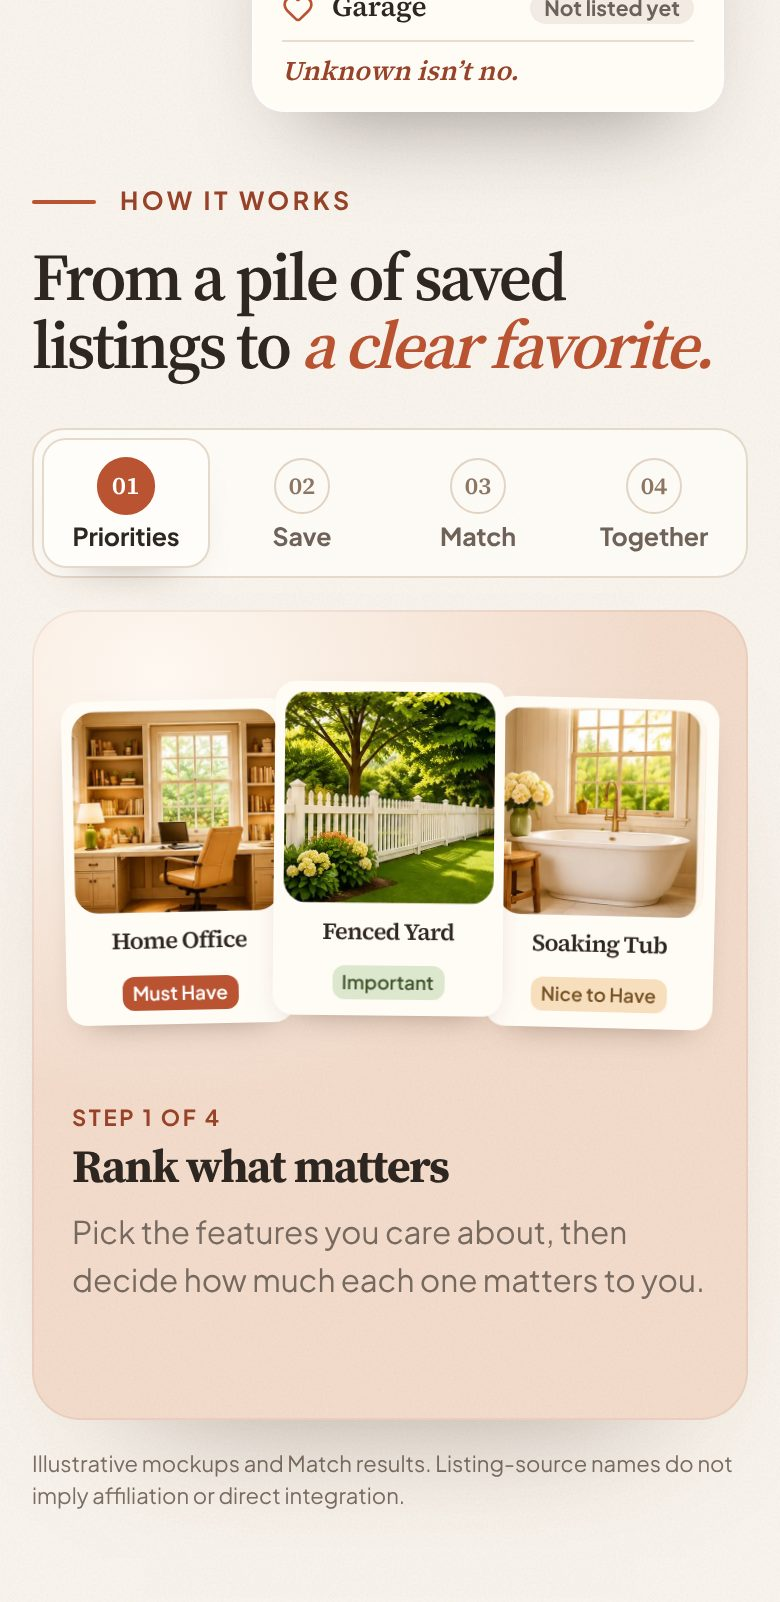
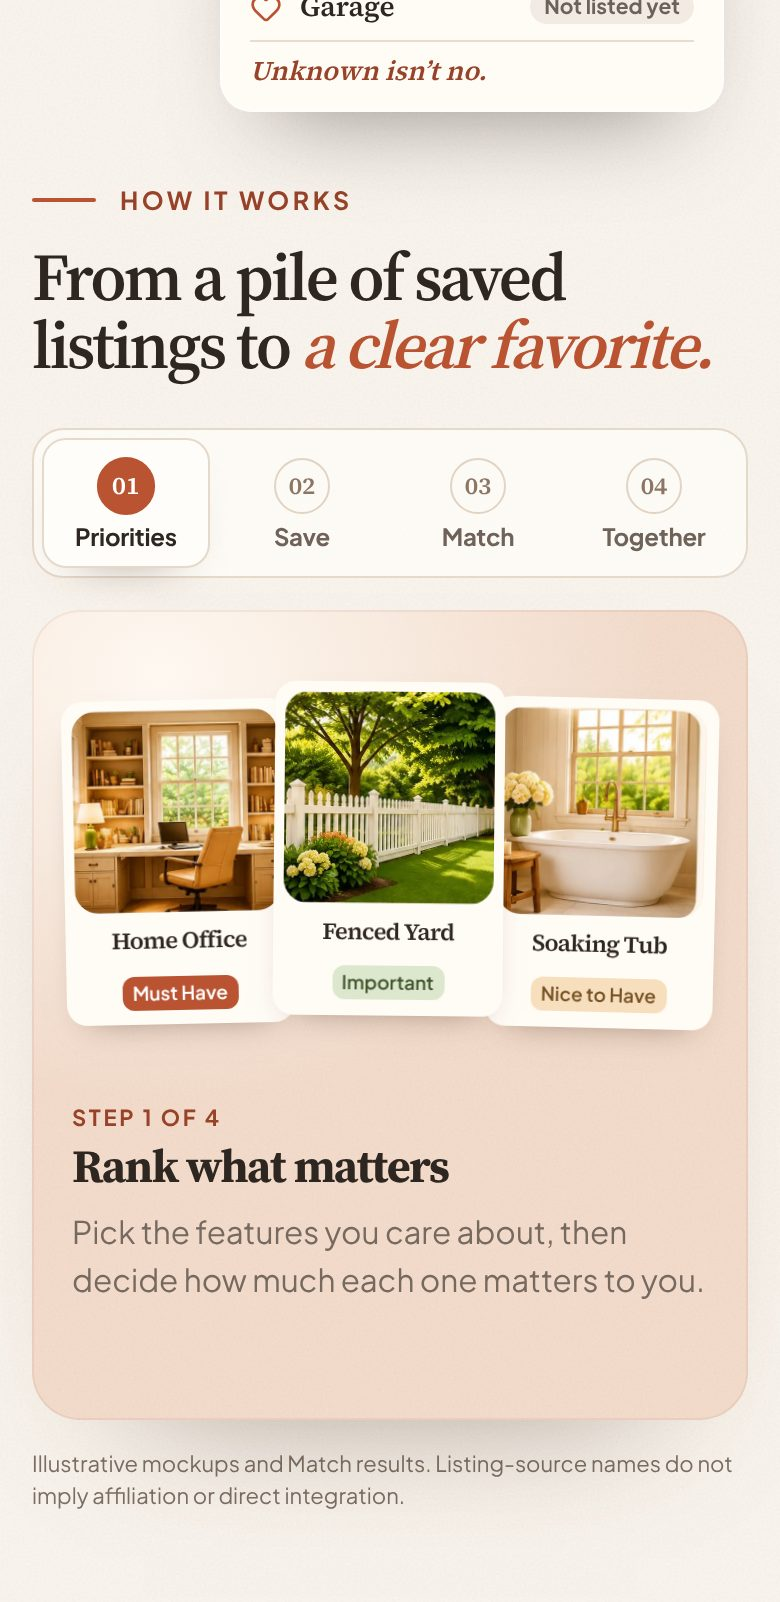
Homepage final refinements: hero copy, Example tag, mobile step labels
- Hero supporting line: "Save the homes you love, see how they match what
  matters, and decide together."
- Add a discreet "Example" tag to the hero priority card; keep
  "Unknown isn't no." Tighten its header on phones so it stays on one line.
- Mobile step navigation: labels fixed at 12px (previously shrank to 10.5px
  at 320px); tap targets already 67x66 (320) and 80x66 (375).
- QA script now covers 375px and checks mobile label size/fit, target
  spacing and the Example tag; screenshots and review guide refreshed.

Claude-Session: https://claude.ai/code/session_01FSpiGT8TGkyh1wFknSeqgm

diff --git a/src/app/globals.css b/src/app/globals.css
@@ -1361,7 +1361,9 @@ table.hh-table tr:hover td { background: rgba(193,89,47,0.035); }
 .pl-hero-visual { position: relative; z-index: 1; min-height: clamp(660px, 90svh, 900px); margin: 0; overflow: hidden; border-bottom-left-radius: clamp(120px, 15vw, 260px); box-shadow: 0 40px 80px -60px rgba(79,48,31,.55); }
 .pl-hero-visual img { object-fit: cover; object-position: 54% center; }
 .pl-hero-note { position: absolute; z-index: 2; right: clamp(20px, 3vw, 48px); bottom: clamp(24px, 4vw, 56px); width: 272px; padding: 16px 18px 14px; border: 1px solid rgba(255,255,255,.7); border-radius: 20px; background: rgba(255,251,245,.94); box-shadow: 0 24px 48px -26px rgba(46,38,33,.55); backdrop-filter: blur(10px); -webkit-backdrop-filter: blur(10px); color: var(--ink); animation: pl-rise .7s .35s cubic-bezier(.2,.7,.2,1) both; }
-.pl-hero-note-kicker { display: block; margin-bottom: 10px; color: var(--brick-deep); font: 700 11px/1.2 var(--font-sans); letter-spacing: .12em; text-transform: uppercase; }
+.pl-hero-note-head { display: flex; align-items: center; justify-content: space-between; gap: 8px; margin-bottom: 10px; }
+.pl-hero-note-tag { padding: 3px 7px; border: 1px solid #e3d3c3; border-radius: 999px; color: #6b5d52; font: 600 11px/1 var(--font-sans); letter-spacing: .02em; }
+.pl-hero-note-kicker { display: block; color: var(--brick-deep); font: 700 11px/1.2 var(--font-sans); letter-spacing: .12em; text-transform: uppercase; }
 .pl-hero-note ul { display: grid; gap: 8px; margin: 0; padding: 0; list-style: none; }
 .pl-hero-note li { display: grid; grid-template-columns: 18px minmax(0, 1fr) auto; align-items: center; gap: 9px; font: 600 15.5px/1.2 var(--font-public-serif); }
 .pl-hero-note li svg { color: var(--brick); }
@@ -1515,8 +1517,10 @@ table.hh-table tr:hover td { background: rgba(193,89,47,0.035); }
   .pl-hero-sub { font-size: 1.02rem; }
   .pl-actions .pl-button { width: 100%; justify-content: space-between; }
   .pl-hero-visual { width: calc(100% - 32px); aspect-ratio: 1 / .9; border-radius: 24px 24px 24px 64px; }
-  .pl-hero-note { right: 12px; bottom: -56px; width: min(236px, calc(100% - 24px)); padding: 12px 14px 11px; border-radius: 16px; }
-  .pl-hero-note-kicker { margin-bottom: 8px; font-size: 10.5px; }
+  .pl-hero-note { right: 12px; bottom: -56px; width: min(252px, calc(100% - 24px)); padding: 12px 14px 11px; border-radius: 16px; }
+  .pl-hero-note-head { gap: 6px; margin-bottom: 8px; }
+  .pl-hero-note-kicker { font-size: 10.5px; letter-spacing: .08em; white-space: nowrap; }
+  .pl-hero-note-tag { padding: 3px 6px; }
   .pl-hero-note ul { gap: 6px; }
   .pl-hero-note li { gap: 7px; font-size: 14px; }
   .pl-hero-note li small { padding: 3px 7px; font-size: 10.5px; }
@@ -1529,7 +1533,7 @@ table.hh-table tr:hover td { background: rgba(193,89,47,0.035); }
   .pl-step { gap: 5px; padding: 9px 2px 8px; border-radius: 12px; }
   .pl-step-number { width: 28px; height: 28px; font-size: 12px; }
   .pl-step-title { position: absolute; width: 1px; height: 1px; overflow: hidden; clip: rect(0, 0, 0, 0); white-space: nowrap; }
-  .pl-step-short { display: block; font: 700 clamp(10.5px, 3.2vw, 12.5px)/1.1 var(--font-sans); letter-spacing: -.005em; }
+  .pl-step-short { display: block; font: 700 12px/1.15 var(--font-sans); letter-spacing: -.01em; }
   .pl-stage { padding: 22px 16px 20px; border-radius: 24px; }
   .pl-stage-art { aspect-ratio: 1 / .64; }
   .pl-stage-detail { min-height: 8.6em; margin-top: 16px; padding: 0 4px; }

diff --git a/src/components/PublicLanding.jsx b/src/components/PublicLanding.jsx
@@ -59,13 +59,13 @@ export default function PublicLanding() {
       <section className="pl-hero" aria-labelledby="hero-title">
         <div className="pl-hero-copy">
           <h1 id="hero-title"><span className="pl-hero-opening">You’ve saved a lot of options.</span>{' '}<span>Now find the one that</span>{' '}<em>Feels Like Home.</em></h1>
-          <p className="pl-hero-sub">Rank what matters to you, bring in the homes you’ve found anywhere, and see how well each one fits.</p>
+          <p className="pl-hero-sub">Save the homes you love, see how they match what matters, and decide together.</p>
           <div className="pl-actions"><button type="button" className="pl-button pl-desktop-auth" onClick={(event) => openAuth('sign-up', event)}>Create a free account <ArrowRight size={18} aria-hidden="true" /></button><Link className="pl-button pl-mobile-auth" href="/auth/sign-up">Create a free account <ArrowRight size={18} aria-hidden="true" /></Link></div>
         </div>
         <figure className="pl-hero-visual"><Image src="/images/Warm Cottage.png" alt="A welcoming cottage with a front porch at golden hour" fill priority sizes="(max-width: 900px) 100vw, 58vw" />
           <figcaption className="pl-hero-note">
             <span className="sr-only">Illustrative example: the front porch and mature trees match your priorities. The garage isn’t listed yet, and unknown isn’t no.</span>
-            <span className="pl-hero-note-kicker" aria-hidden="true">How this one fits you</span>
+            <span className="pl-hero-note-head" aria-hidden="true"><span className="pl-hero-note-kicker">How this one fits you</span><span className="pl-hero-note-tag">Example</span></span>
             <ul aria-hidden="true">{heroNote.map(({ label, state, met }) => <li key={label} className={met ? 'is-met' : 'is-unknown'}>
               <Heart size={16} fill={met ? 'currentColor' : 'none'} strokeWidth={met ? 0 : 2} /><span>{label}</span><small>{state}</small>
             </li>)}</ul>

diff --git a/test/public-landing.test.js b/test/public-landing.test.js
@@ -93,5 +93,7 @@ test('How It Works is one large tabbed story with four concepts and a short page
 test('hero note shows unknown facts as unknown, never as mismatches', () => {
   assert.match(landing, /label: 'Garage', state: 'Not listed yet', met: false/);
   assert.match(landing, /Unknown isn’t no\./);
+  assert.match(landing, /<span className="pl-hero-note-tag">Example<\/span>/);
+  assert.match(landing, /Save the homes you love, see how they match what matters, and decide together\./);
   assert.match(css, /\.pl-hero-note li\.is-unknown small \{[^}]*background: #f1ebe4/);
 });

diff --git a/docs/homepage-creative-redesign/README.md b/docs/homepage-creative-redesign/README.md
@@ -7,7 +7,7 @@
 
 | Before (#204) | Problem | Now |
 | --- | --- | --- |
-| The hero photo faded into a flat beige column. Small headline, nothing explaining the product. | Pretty, but you couldn't tell what FLH does. | The same **Warm Cottage** photo sits in a large frame with a soft arch at the bottom left. The headline is bigger and more confident, with one supporting line under it. A small **"How this one fits you"** card sits on the photo: Front porch ✓, Mature trees ✓, Garage *Not listed yet*, then *"Unknown isn't no."* It explains the product, and its core principle, in about two seconds. |
+| The hero photo faded into a flat beige column. Small headline, nothing explaining the product. | Pretty, but you couldn't tell what FLH does. | The same **Warm Cottage** photo sits in a large frame with a soft arch at the bottom left. The headline is bigger and more confident, with one supporting line under it. A small **"How this one fits you"** card, marked with a discreet *Example* tag, sits on the photo: Front porch ✓, Mature trees ✓, Garage *Not listed yet*, then *"Unknown isn't no."* It explains the product, and its core principle, in about two seconds. |
 | How It Works: three small cards floating in an empty band, plus small Previous/Next controls and 3px dots. | Too small to read, looked disconnected, and felt like a slide deck. | **One large product story.** There are four clear, numbered steps (desktop: a vertical list; mobile: a 4-up segmented control). Each step changes a large tinted stage that holds the approved artwork. Each step gets its own tint (peach, wheat, sage, apricot), so switching steps reads as a real change. |
 | Page ended straight into the footer. | No final invitation. | **A closing invitation in terracotta.** "Your shortlist deserves *a closer look.*" plus the sign-up CTA, a Realtor link, and three fanned home photos from the approved artwork. |
 
@@ -33,11 +33,16 @@ Product-truth guardrails kept: FLH doesn't find listings, unknown facts aren't m
 
 ## Things to decide
 
-1. **Hero supporting line.** It's new; an earlier round removed a lede. It's one line, and removing it is a one-line change.
-2. **Hero fit-card wording** ("How this one fits you", "Not listed yet", "Unknown isn't no."). "Unknown isn't no" is already in-app copy.
-3. **Section headline**: "From a pile of saved listings to *a clear favorite.*"
-4. **Closing headline**: "Your shortlist deserves *a closer look.*"
-5. **Step names** changed from #204's ("Set Your Preferences / Import Homes from Anywhere / Compare What Matters / Search & Decide Together") to the four concepts in the brief.
+The overall direction is approved. Final refinements in this round:
+
+1. The hero supporting line is now: "Save the homes you love, see how they match what matters, and decide together."
+2. The hero priority card has a discreet **Example** tag beside its title. "Unknown isn't no." stays.
+3. The mobile step navigation was checked at 320 and 375 px:
+   - Targets were already fine: 67×66 px at 320, 80×66 px at 375, with a 4 px gap.
+   - The one change: step labels used to shrink to 10.5 px at 320. They're now a fixed 12 px, and every label still fits its tab.
+   - The card header is tightened on phones so the title and the Example tag stay on one line.
+
+Layout, illustrations, imagery, typography and interactions are otherwise unchanged.
 
 ## Also fixed
 
@@ -47,23 +52,24 @@ On desktop, the closing and footer "Get started"/"Sign in" buttons used to open 
 
 Screenshots are from a local **production build** (`npm run build && next start`) at 2× device scale, in `screenshots/`:
 
-- Full page: `home-1440.jpg`, `home-1024.jpg`, `home-768.jpg`, `home-390.jpg`, `home-320.jpg`
+- Full page: `home-1440.jpg`, `home-1024.jpg`, `home-768.jpg`, `home-390.jpg`, `home-375.jpg`, `home-320.jpg`
 - Every step: `step-{1..4}-1440.jpg`, `step-{1..4}-390.jpg`
 - Native shell still shows its own welcome: `native-welcome-390.jpg`
 
 Before (#204): `../homepage-final-four-columns/approved-implementation/screenshots/website-{1440,1024,768,390,320}.png`
 
-Page height (CSS px): 1440 → 2,575 · 1024 → 2,209 · 768 → 2,795 · 390 → 2,379 · 320 → 2,322.
+Page height (CSS px): 1440 → 2,575 · 1024 → 2,209 · 768 → 2,795 · 390 → 2,353 · 375 → 2,313 · 320 → 2,324.
 
 Checks:
 
 - `npm run build`: passed.
 - `npm test`: **1,418 / 1,418** passed. Homepage tests were rewritten for the new structure. They cover the tabs semantics, native exclusion, approved assets, the unknown-isn't-no principle, page length, and banned claims.
-- `node scripts/qa/homepage-creative-redesign.mjs`: **62 / 62** browser checks passed (`browser-results.json`). It checks:
+- `node scripts/qa/homepage-creative-redesign.mjs`: **81 / 81** browser checks passed at 1440, 1024, 768, 390, 375 and 320 (`browser-results.json`). It checks:
   - no horizontal overflow at any width
   - the cottage photo renders at every width
   - no live text below 10.5px
-  - tabs are at least 44px
+  - tabs are at least 44px; on mobile, step labels are at least 12px, fit their tab and keep a gap between targets
+  - the Example tag shows and the card header stays on one line
   - no console errors
   - every step selects exactly one panel
   - keyboard roving focus, focus ring, and Tab leaving the tablist
